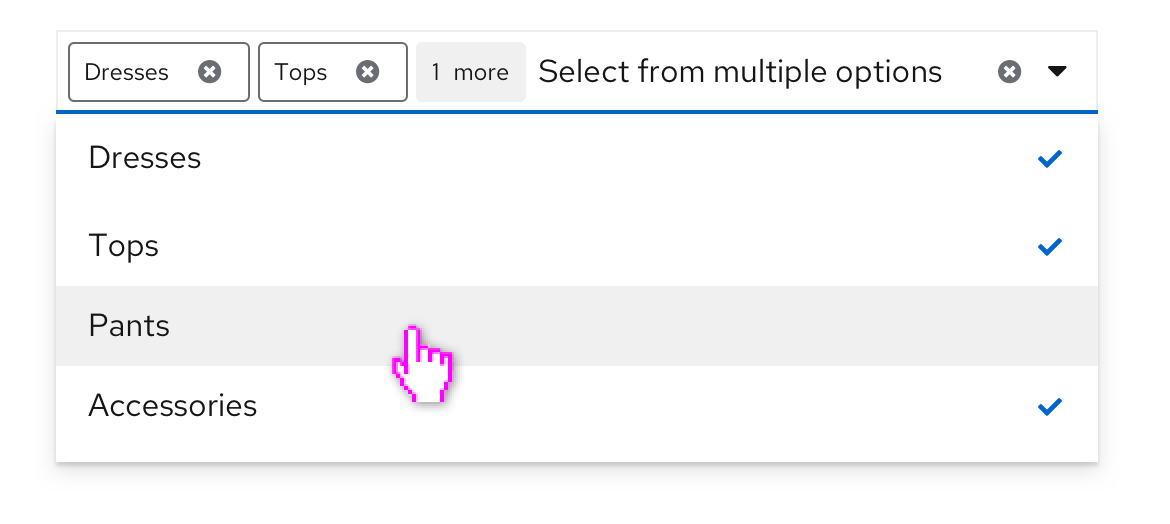
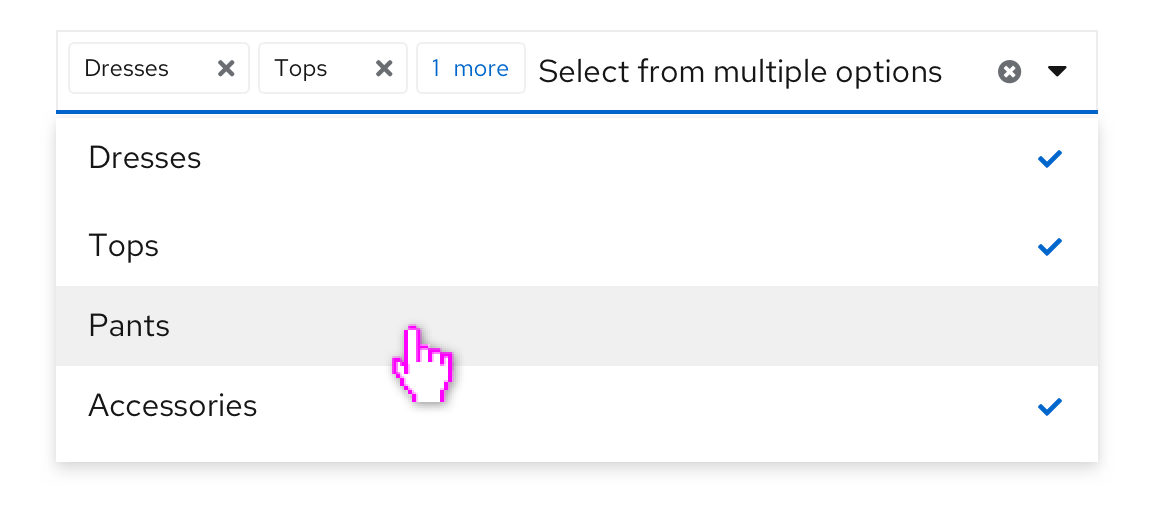
changed images to reflect new chip design, and edited a couple sentences for clarity

Changed region(s): [[0.0615, 0.0611, 0.3385, 0.1527], [0.0615, 0.1832, 0.3385, 0.2137], [0.3692, 0.1221, 0.4308, 0.1527]]

diff --git a/packages/v4/src/content/design-guidelines/usage-and-behavior/data-input/data-input.md b/packages/v4/src/content/design-guidelines/usage-and-behavior/data-input/data-input.md
@@ -50,7 +50,7 @@ You can use headings to label a group of checkboxes. The placement of headings w
 
 <img src="./img/group-checkbox.png" alt="Example of a group of checkboxes" width="443"/>
 
-You also have the option to nest other controls underneath a checkbox. The nested options would be enabled or disabled when the user selects or deselects a checkbox.
+You also have the option to use progressive disclosure by nesting other controls underneath a checkbox. The nested options would be enabled or disabled when the user selects or deselects a checkbox.
 
 <img src="./img/nested-controls-checkbox.png" alt="Example of nested control checkboxes" width="459"/>
 
@@ -84,7 +84,8 @@ Radio buttons allow users to select **one item** from a list of options.
 * A default option should always be selected for the user. If the user selects a different option, the default option should be automatically deselected.
 * To enable the user to select a null option, provide a radio button with the label “None.”
 * Use radio buttons if you’re presenting 5 or fewer options to the user. If you’re presenting more than 5 options, use a [single select list](#single-select). 
-* If space is limited, you can also use radio buttons to nest other controls.
+* If space is limited, you can also use progressive disclosure by nesting other controls underneath a radio button.
+
 
     <img src="./img/nested-controls-radio.png" alt="Example of nested control with radio buttons" width="465"/>
 
@@ -115,7 +116,7 @@ Checkbox select lists allow users to select one or more options from a known lis
 <img src="./img/checkbox-select.png" alt="Example of checkbox select in a toolbar" width="585"/>
 
 ### Multiple select 
-Multiple select lists allow users to select one or more options from a list, with the selected options marked with a blue check. It differs from the checkbox select in that each option selected by the user appears in the top display area as chips. Once the number of selections reaches a certain number (which you can decide on), the regular chips will be replaced by a gray chip indicating how many more items were selected (for example, 1 more). 
+Multiple select lists allow users to select one or more options from a list, with the selected options marked with a blue check. It differs from the checkbox select in that each option selected by the user appears in the top display area as chips. Once the number of selections reaches a certain number (the default is 3, but you may choose to change this based on your use case), the regular chips will be replaced by a gray chip indicating how many more items were selected (for example, 1 more). 
 
 <img src="./img/selectlist-multi.png" alt="Example of multiple select list" width="585"/>
 
